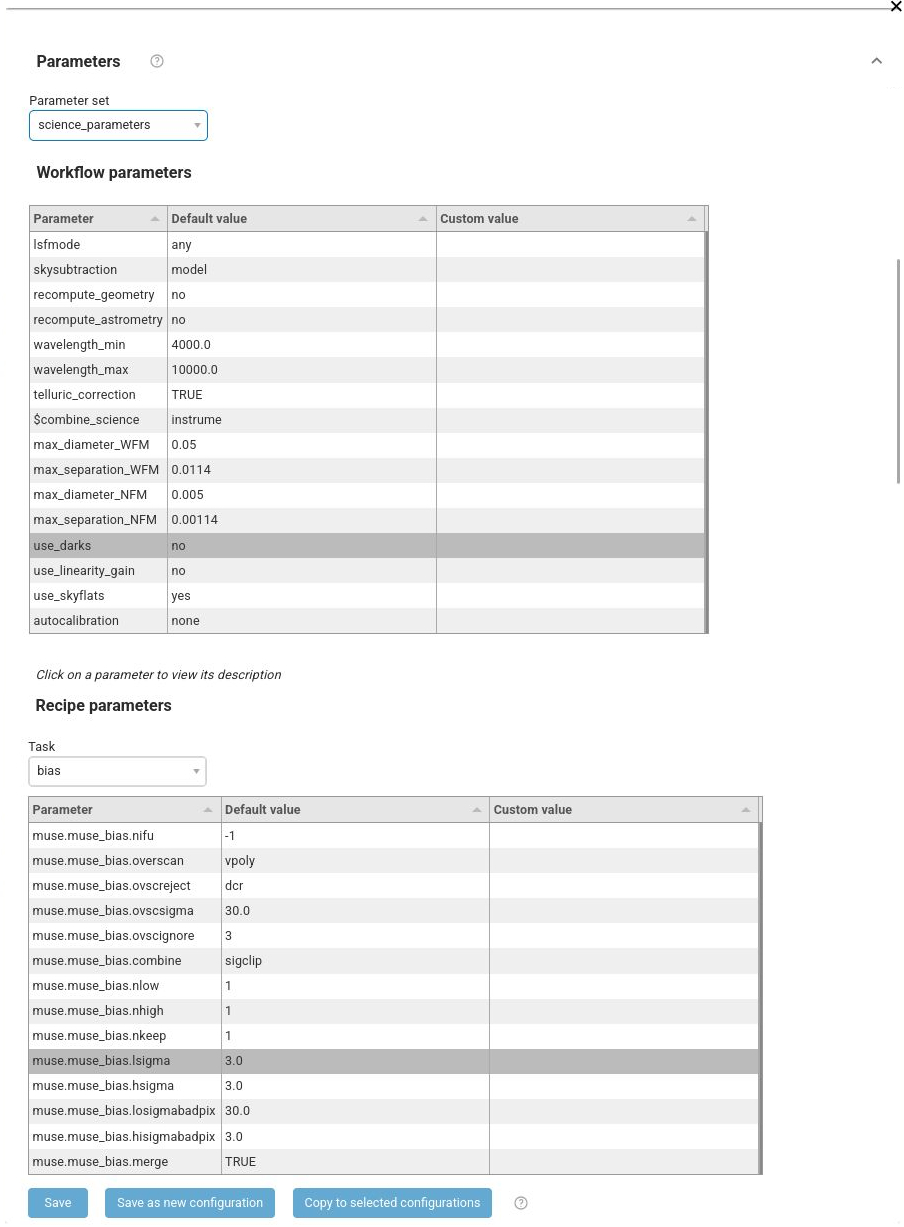
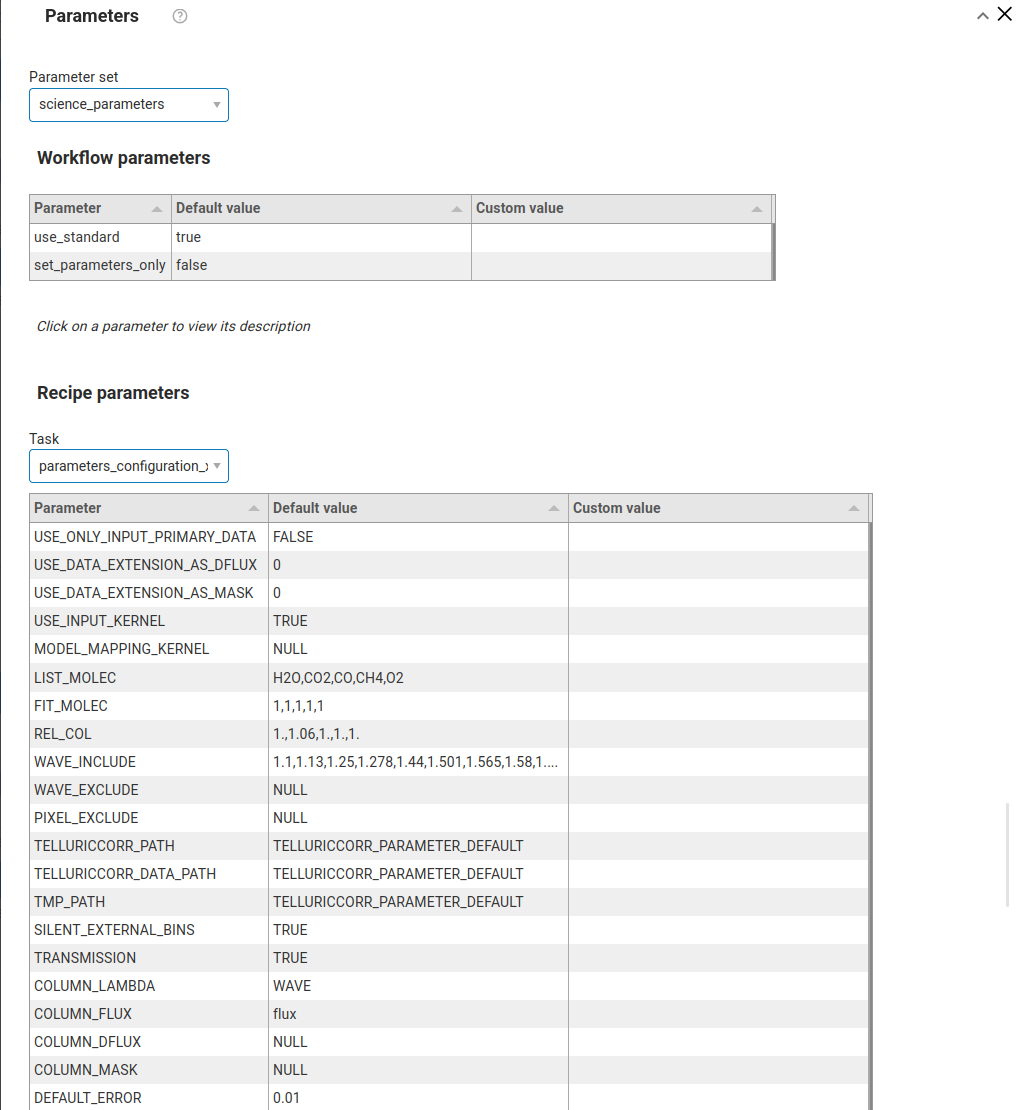
Update molecfit

Changed region(s): [[0.0, 0.0, 0.8673, 1.0], [0.9912, 0.2144, 1.0, 0.3982], [0.9602, 0.0, 1.0, 0.0306]]

diff --git a/edps-tex/molecfit/instrument_tutorial/configure_reduction.tex b/edps-tex/molecfit/instrument_tutorial/configure_reduction.tex
@@ -1,12 +1,150 @@
-\section{Overview of all the data reduction configuration options}
+\section{Optimization of the telluric correction}
 \label{sec:configuretion_overview}
 
 \subsection{Selection of most appropriate calibrations}
 
-\input{../common/appropriate_calibrations}
+The EDPS workflows allow to express a preference w.r.t. the
+calibrations to be associated, e.g. raw calibrations or master
+calibrations (pre-computed from previous runs).
+
+This is done by setting the Calibration Preference in the Raw Data
+tab.
+
+In the case of the molecfit workflow, there are no master calibrations
+available at the moment, therefore this option is not supported.
+
+\subsection{Adjusting the recipe parameters {\it before } fitting}
+\label{sec:adjust_recipe_parameters}
+
+Recipe parameters can be configured per dataset from the configuration
+editor (Section \ref{sec:configuration_editor}. If no action is taken,
+default recipe parameters (either recipe defaults or automatically set
+by the workflow depending on the type of input data) are
+used. Defaults can be changed before starting the reduction, or
+after (in this case, a new configuration is created).
+
+In the case of \pipename\ the fit step carried on by the task {\bf
+  atmospheric\_model} takes a lot of time: adjusting recipe parametes
+{\it after} each recipe execution is indeed inefficient.
+
+The \pipename\ EDPS workflow offers the possibility to inspect the
+recipe parameters {\it before} fitting the reference spectrum. This is
+particularly relevant for those parameters that can be assessed after
+a visual inspection of the spectrum to fit (e.g., wavelength range to
+consider, molecules to include in the fit, degree of the polynomial
+continuum).
+
+To do so, follow this procedure:
+
+\begin{itemize}
+
+\item Open the configuration editor (Section
+  \ref{sec:configuration_editor}) for the desired
+  dataset/configuration in the Reduction Queue and set the workflow
+  parameter {\bf set\_parameters\_only} has to be set to {\bf true} {\it
+    before starting the reduction}. This can be done also from the Raw
+  Data tab {\it before} creating the datasets.
+
+\item Select the datasets (those with {\bf
+  set\_parameters\_only = 'true'}) and start the reduction by pressing
+  the Reduce button in the Reduction Queue.
+
+\item The reduction will start. The task {\bf
+  parameter\_configuration} automatically set the recipe parameter,
+  which are passed to the next tasks. The next tasks do not execute
+  any recipe and do not produce any output, but are automatically set
+  to {\tt COMPLETED}. They are associated to a recipe named {\tt
+    skip\_execution}.
+
+\item Open the configuration editor (Section
+  \ref{sec:configuration_editor}), select the task {\bf
+    parameter\_configuration} and edit the parameters according to the
+  needs. Visual inspection of the data might help in deciding the
+  most appropriate values. To visually inspect the data, press on
+  the magnifying lens symbol close to the {\bf parameter\_configuration}
+  task (see Section \ref{sec:quality_plots}).
+
+
+\item Once the new parameter are set, save the new configuration. The
+  reduction of the new configuration can be started. Once the
+  parameters have been optimized, save a new configuration with {\bf
+    set\_parameters\_only = 'false'} and start the reduction.  The
+  following tasks will now perform the fit, compute the atmospheric
+  transmission, and correct the science spectrum with the correct
+  recipes.
+
+\item If final results are still not satisfactory and recipe
+  parameters have to be modified again, create a new configuration
+  with {\bf set\_parameters\_only = 'true'} and repeat the process.
+
+
+\end{itemize}
+
+\subsection{Tipps on how to set parameters}
+
+The most common recipe parameters that might need to be adjusted, even
+after the automatic setting done in the workflow, are:
+
+\begin{itemize}
+
+\item {\tt WAVE\_INCLUDE}. A list of wavelength values in micron,
+  comma separated, that specifies the boundaries of the wavelength
+  regions to include in the fit. Try to select short regions that contain
+  clear and intense absoprtion lines. Avoid lines close to
+  saturation. Leave a few pixels outside the lines to facilitate the
+  determination of the continuum level.  Please, not that a continuum
+  level is computed for each region. The more and broade wavelength
+  regions are defined, the longer the fit will be, and it is not
+  guarantee that the fit will be better than one obtained with less
+  numerous and narrower regions.
+
+\item {\tt WAVE\_EXCLUDE}. A list of wavelength values in micron,
+  comma separated, that specifies the boundaries of the wavelength
+  regions to exclude in the fit. An exclusion region inside an
+  inclusion region does not divide the inclusion region in 2 smaller
+  regions: a single continuum level is still computed for that
+  inclusion region.
+
+\item {\tt LIST\_MOLEC}, {\tt FIT\_MOLEC}, {\tt REL\_COL}. The first
+  parameter, {\tt LIST\_MOLEC}, contains the comma-separated list of
+  molecules to include in the fit. Be sure to include only molecules
+  that have a significant impact within the visible spectral
+  region. Each individual molecule can be fit (the corresponding temr
+  in {\tt FIT\_MOLEC} is 1) or computed (the corresponding term in
+  FIT\_MOLEC is 0) considering typical abundance ratios and relative
+  column densities (the corresponding value in {\tt REL\_COL} is
+  used). Note that the number of elements in FIT\_MOLEC and {\tt
+    REL\_COL} must be the same as the number of elements in {\tt
+    LIST\_MOLEC}.
+  
+\item {\tt CONTINUUM\_N} The polynomial degree to fit the continuum. A
+  comma separated list of values can be provided, each per every
+  wavelegth region defined in {\tt WAVE\_INCLUDE}.
+
+\item {\tt WLC\_N}. The polynomial degree to fit the wavelength
+  adjustment. A global wavelength solution is used for all the
+  specgtral range. It is recommended to leave it to 1, unless telluric
+  features are fitted all over the spectrum, including the edges, to
+  avoud interpolation and extrapolation effects.
+  
+  
+\item {\tt FIT\_RES\_BOX}, {\tt FIT\_RES\_LORENTZ}, {\tt RES\_BOX},
+  {\tt RES\_LORENTZ}, {\tt VARKERN}. These are parameters that specify
+  the shape of the line profile (line spread function). For wide slits
+  where the box-car contribution is relevant, set {\tt FIT\_RES\_BOX =
+    1} and {\tt RES\_BOX} different from 0. If the box-car
+  contribution does not have to be included, then set both {\tt
+    FIT\_RES\_BOX} and {\tt RES\_BOX} to 0.  {\tt VARKERN} has to be
+  set to:
+  \begin{itemize}
+  \item {\tt VARKERN = 'TRUE'} if the resolving power ($\lambda/$fwhm) is constant
+    with wavelength.
+    \item {\tt VARKERN = 'FALSE'} if the spectral resolution (fwhm) is constant with wavelength.
+  \end{itemize}
+\end{itemize}
+
+
 
 \subsection{Configuration of parameters: the configuration editor}
 \label{sec:configuration_editor}
 \input{../common/configuration_editor}
-
-{\bf OTHER CONFIGURATIONS}

diff --git a/edps-tex/molecfit/instrument_tutorial/reduction_chain.tex b/edps-tex/molecfit/instrument_tutorial/reduction_chain.tex
@@ -1,11 +1,75 @@
 \section{The \instname\ data reduction flow.}
 \label{sec:reduction_flow}
-\input{../common/common_reduction_flow}
+\input{reduction_flow}
 
-{\bf LIST THE REDUCTION STEPS HERE}
-\subsection{step 1}
-t.b.d.
-\subsection{step 2}
-t.b.d.
-\subsection{step 3}
-t.b.d.
+
+\subsection{Reference spectrum}
+
+This tasks selects the reference spectrum to fit in order to derive
+the parameters of the atmosphere (such as molecules) and the
+instrument (such as spectral resolution).
+
+The user has the possibility to select whether this has to be done
+directly on the input science spectrum to correct, or on a telluric
+standard star that is somehow associated to the science spectrum to
+correct. This is determined by the workflow parameter {\bf
+use\_standard} (default ``true'').
+
+
+{\bf The current version of the \wkfname\ workflow only support the
+association of telluric standard stars for XSHOOTER observations.}
+
+A telluric standard star is recognized as such if it has the string
+{\tt TELL\_SLIT} in its product category. It must be in a format
+compatible with the 1D spectra of the ESO archive standard.
+
+In order to be associated to the science (only for XSHOOTER
+observations) it must match the {\tt SEQ.ARM}, {\tt INS.OPTI4.NAME}
+(for VIS observations), and {\tt INS.OPTI.5.NAME} (for NIR
+observations). Note: telluric correction of XSHOOTER UVB data is not
+supported.
+
+Once the reference spectrum is identified (either telluric standard or
+the very same science spectrum to correct), it is passed to the next
+task.
+
+\subsection{Parameter configuration}
+
+This task analyzes the input spectrum and configure the parameters
+that will be used by the recipe {\tt molecfit\_model} for the fit,
+depending on the instrument, observational setup, and wavelength
+coverage. Note that this step does nor run any fit, it creates a file
+containig the values of the recicpe parameters to be passed to the
+next task and used by {\tt molecfit\_model}.
+
+Typically, there is a task per instrument (xshooter has 2, one for the
+VIS and one for the NIR arm). But the automatic parameter adjustion is
+done separately for each dataset.
+
+By default, the configured parameters are directly passed to the next
+steps. If one desires to review the parameters and change before
+starting the fit, the workflow parameter {\bf set\_parameters\_only}
+has to be set to ``true'' {\it before starting the reduction}. This will be
+explained in more details in Section 
+\ref{sec:adjust_recipe_parameters}.
+
+\subsection{Atmospheric model}
+
+This task runs the recipe {\bf molecfit\_model} on the reference
+spectrum. It uses the recipe parameters defined on the previous task.
+Fitting parameters cannot be changed from this task: fine tuning of
+the fit must be done by setting again the recipe parameters on the
+previous task using the configuration editor (see Section
+\ref{sec:configuration_editor}).
+
+\subsection{Atmospheric transmission}
+
+This task runs the recipe {\bf molecfit\_calctrans}. It uses the
+atmospheric parameters computed on the reference spectrum and computes
+the full atmospheric transmission on the wavelenght range defined by
+the scientific spectrum.
+
+\subsection{Telluric correction}
+
+This task applies the atmospheric transmission correction to the
+scientific spectrum.

diff --git a/edps-tex/common/common_reduction_flow.tex b/edps-tex/common/common_reduction_flow.tex
@@ -19,11 +19,12 @@ the algorithms, input, outputs and recipe parameters used in each
 recipe are available in the pipeline manual. Here, we present only the
 description of most important features.
 
-The \wkfname\  \edps\ workflow is designed to execute the tasks that
-deliver the final reduced data cube for each dataset. It can be either
-the product of a single exposure, or the combination of multiple
-exposures. Only calibrations needed by the selected the scientific
-exposures are processed.
+The \wkfname\ \edps\ workflow is designed to execute the tasks that
+deliver the final reduced data for each dataset. It can be either the
+product of a single exposure, or the combination of multiple exposures
+(depending on the instrument and, eventually, adopted strategy). Only
+calibrations needed by the selected the scientific exposures are
+processed.
 
 It is possible to set \edps\ to perform the data reduction until a
 certain step of the reduction chain (e.g. to reduce only standar

diff --git a/edps-tex/common/main_concepts.tex b/edps-tex/common/main_concepts.tex
@@ -52,5 +52,6 @@ The main concepts in \edps\ are:
   the tasks that deliver final scientific products, the target
   category "qc1calib" includes all and only the tasks that processes
   calibrations (e.g., bias, flat fields, standard stars).
-
+  The target category ``all'' includes all the tasks.
+  
 \end{itemize}

diff --git a/edps-tex/molecfit/instrument_tutorial/instrument_tutorial.tex b/edps-tex/molecfit/instrument_tutorial/instrument_tutorial.tex
@@ -99,8 +99,8 @@ pdfsubject= {pdftitle}
 \cleardoublepage
 \input{intro}  
 \input{reducing_demo_data}
-%\input{reduction_chain}
-%\input{configure_reduction}
+\input{reduction_chain}
+\input{configure_reduction}
 %\input{task_list}
 %\input{faq}
 

diff --git a/edps-tex/molecfit/instrument_tutorial/reducing_demo_data.tex b/edps-tex/molecfit/instrument_tutorial/reducing_demo_data.tex
@@ -21,6 +21,7 @@ header keyword {\tt WAVELMIN}.}
 
  
 \subsubsection{Quality plots}
+\label{sec:quality_plots}
 \input{../common/quality_plots}
 
 \subsection{Exporting the final products}
